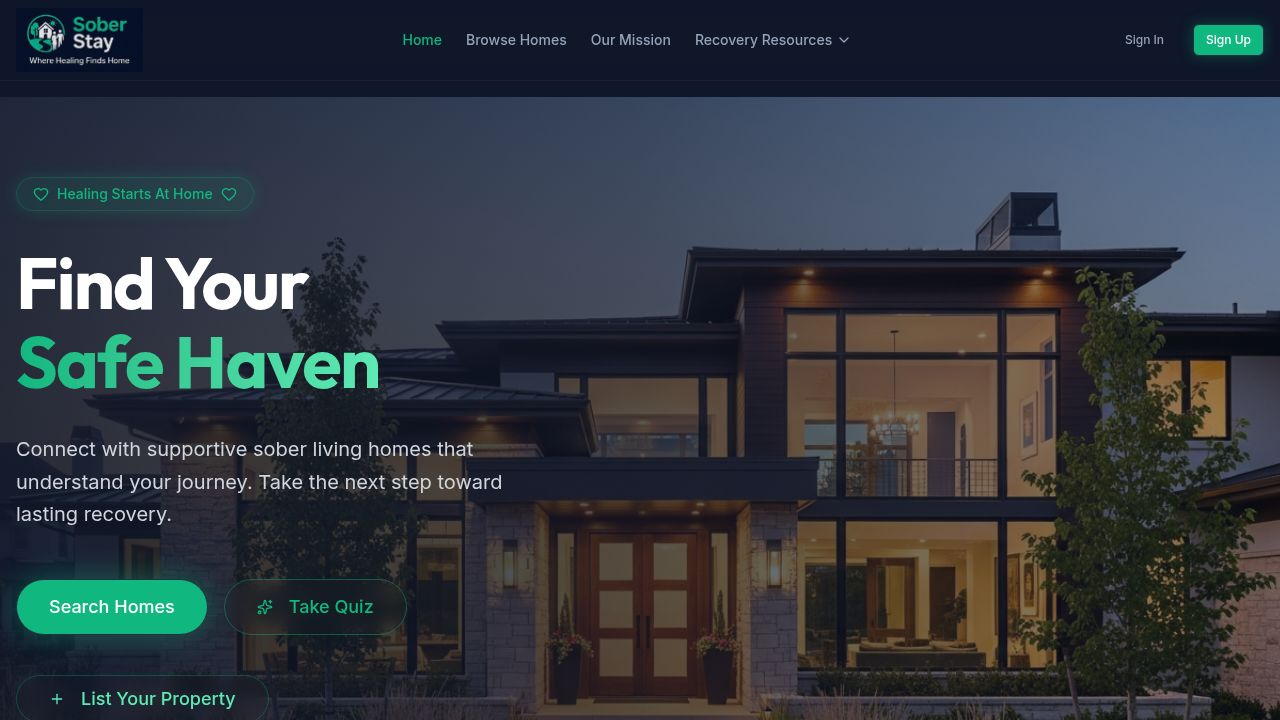
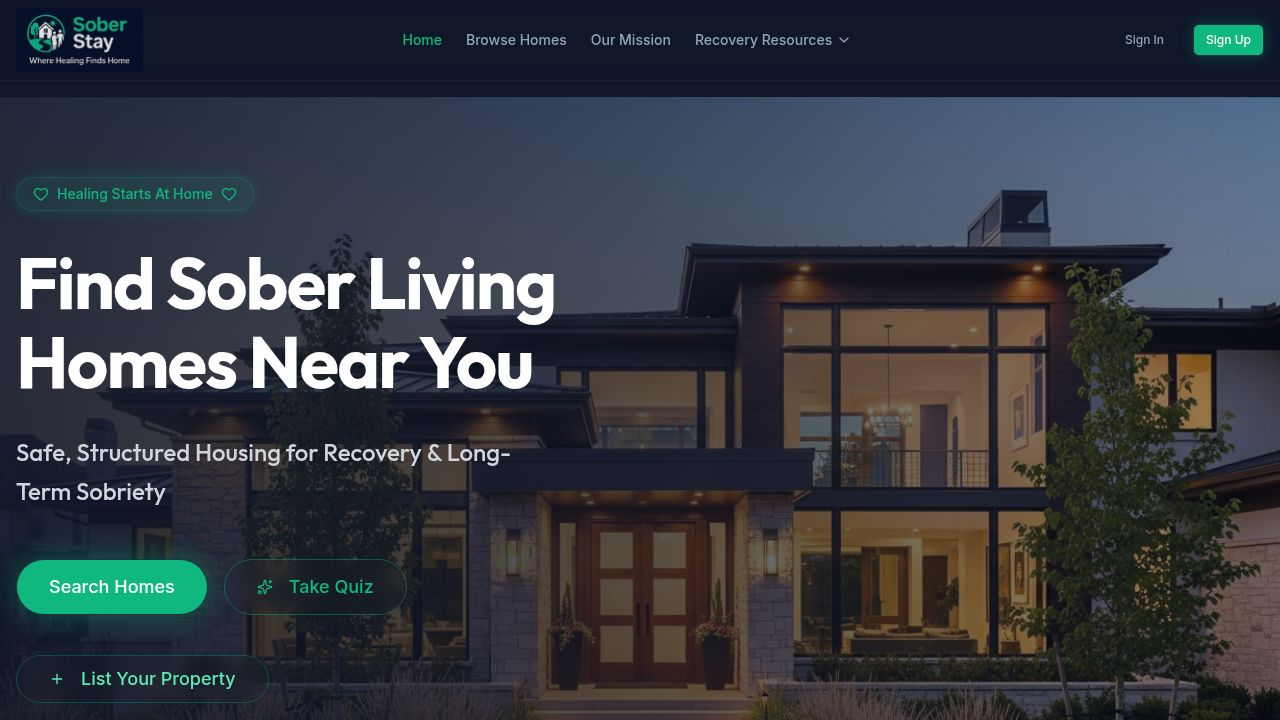
Add proper SEO headings to the homepage content
Update the homepage's H1 and H2 tags for improved SEO and semantic structure, ensuring only one H1 is present.

Replit-Commit-Author: Agent
Replit-Commit-Session-Id: 484203f9-f37d-4571-b024-53a213406f05
Replit-Commit-Checkpoint-Type: full_checkpoint
Replit-Commit-Event-Id: b4ddc1ea-a861-4856-b103-4eb4fc2e7677
Replit-Commit-Screenshot-Url: https://storage.googleapis.com/screenshot-production-us-central1/81e67262-816b-4fb6-81d9-b08eca5409c7/484203f9-f37d-4571-b024-53a213406f05/XVzmftz

Changed region(s): [[0.0, 0.2444, 1.0, 1.0]]

diff --git a/client/src/pages/home.tsx b/client/src/pages/home.tsx
@@ -71,13 +71,12 @@ export default function Home() {
             </div>
             
             <h1 className="text-5xl md:text-7xl font-heading font-bold tracking-tight text-white leading-[1.1]">
-              Find Your <br />
-              <span className="text-transparent bg-clip-text bg-gradient-to-r from-primary to-emerald-300">Safe Haven</span>
+              Find Sober Living Homes Near You
             </h1>
             
-            <p className="text-xl text-gray-300 max-w-lg leading-relaxed">
-              Connect with supportive sober living homes that understand your journey. Take the next step toward lasting recovery.
-            </p>
+            <h2 className="text-xl md:text-2xl text-gray-300 max-w-lg leading-relaxed font-medium">
+              Safe, Structured Housing for Recovery & Long-Term Sobriety
+            </h2>
             
             <div className="flex flex-col sm:flex-row gap-4 pt-4">
               <Link href="/browse">
@@ -157,10 +156,10 @@ export default function Home() {
         <div className="container mx-auto px-4 relative z-10">
           <div className="text-center max-w-3xl mx-auto mb-20">
             <Badge variant="outline" className="mb-4 border-primary/50 text-primary px-4 py-1 text-sm uppercase tracking-widest">Simple Process</Badge>
-            <h2 className="text-4xl md:text-6xl font-bold mb-6 text-white tracking-tight">
+            <h3 className="text-4xl md:text-6xl font-bold mb-6 text-white tracking-tight">
               Your Journey to <br/>
               <span className="text-transparent bg-clip-text bg-gradient-to-r from-white to-gray-400">Safe Living</span>
-            </h2>
+            </h3>
             <p className="text-xl text-muted-foreground">Finding a safe environment shouldn't be harder than the recovery itself. We've simplified the process into three seamless steps.</p>
           </div>
 
@@ -282,7 +281,7 @@ export default function Home() {
         <div className="container mx-auto px-4">
           <div className="flex flex-col md:flex-row md:justify-between md:items-end mb-16 gap-6">
             <div>
-              <h2 className="text-4xl font-bold mb-4 text-white">Featured Homes</h2>
+              <h3 className="text-4xl font-bold mb-4 text-white">Featured Homes</h3>
               <p className="text-xl text-muted-foreground">Top-rated sober living environments near you.</p>
             </div>
             <Link href="/browse">
@@ -356,7 +355,7 @@ export default function Home() {
           <div className="w-16 h-16 bg-primary/20 rounded-full flex items-center justify-center mx-auto mb-8">
              <Sparkles className="w-8 h-8 text-primary" />
           </div>
-          <h2 className="text-4xl font-bold mb-6 text-white">Stay Connected to Recovery</h2>
+          <h3 className="text-4xl font-bold mb-6 text-white">Stay Connected to Recovery</h3>
           <p className="text-xl text-muted-foreground mb-10">Get updates on new openings, recovery resources, and community events delivered to your inbox.</p>
           <div className="flex flex-col sm:flex-row gap-3 max-w-md mx-auto">
             <Input 
